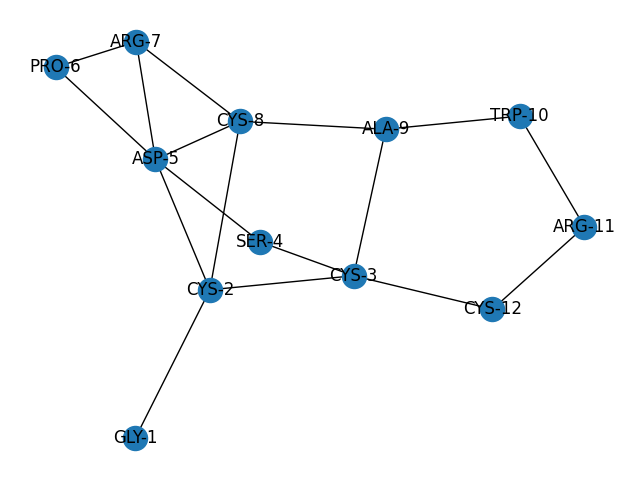
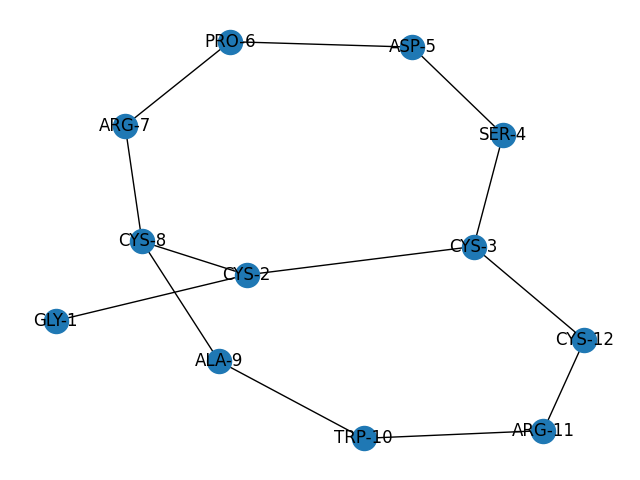
fixed peptide bond and disulfide bond addition

diff --git a/descriptors/peptide.py b/descriptors/peptide.py
@@ -10,12 +10,13 @@ Provides methods to obtain peptide descriptors.
 
 from audioop import add
 from platform import node
-from typing import List, Dict, NamedTuple, Tuple
+from typing import List, Dict, NamedTuple, Tuple, Set
 from collections import namedtuple
 from itertools import combinations, product
 
 import numpy as np
 import networkx as nx
+from scipy.spatial import distance
 
 from peptides import Peptide as PTDS
 from Bio.PDB import PPBuilder
@@ -30,7 +31,8 @@ aa_code: Dict[str, str] = {'CYS': 'C', 'ASP': 'D', 'SER': 'S', 'GLN': 'Q', 'LYS'
 
 basic_aa: Tuple[str] = ("HIS", "ARG", "LYS")
 acidic_aa: Tuple[str] = ("ASP", "GLU")
-non_bonding_side_chains: Tuple[str] = ("GLY", "SER", "LEU", "ILE", "MET", "TYR", "ALA", "VAL", "PHE", "TRP", "PRO", "GLN", "ASN")
+all_side_chains: Tuple[str] = list(aa_code.keys())
+neutral_aa: Set[str] = set(all_side_chains) - set(basic_aa + acidic_aa)
 backbone_atoms: Tuple[str] = ('CA', 'C1', 'HA', 'N', 'HN', 'H', 'C', 'O', 'H1', 'H2', 'H3', 'NH1', 'NH2', 'NH3', 'OXT')
 
 BOND_LENGTHS: NamedTuple = namedtuple('BondLengths', 'min max')
@@ -59,20 +61,20 @@ class ResidueNode(object):
         self.residue: Residue = residue
         self.num_peptide_bonds: int = 0
         self.num_disulfide_bonds: int = 0
-        self.disulfide: bool = False
-        self.acidic_side_chain: bool = False
-        self.basic_side_chain: bool = False
+        self.MAX_PEPTIDE_BONDS = 2
+        self.MAX_DISULFIDE_BONDS = 1
         
-        self._has_acidic_side_chain()
-        self._has_basic_side_chain()
-    
+        self.disulfide: bool = self._has_thiol_side_chain()
+        self.acidic_side_chain: bool = self._has_acidic_side_chain()
+        self.basic_side_chain: bool = self._has_basic_side_chain()
+        
     def get_coordinates(self, element_type = "SG") -> List:
-        if element_type == "SG":
-            return [np.array(atom.get_coord()) for atom in self.residue if atom.get_name() == element_type]
-        elif element_type == "CA":
-            return [np.array(atom.get_coord()) for atom in self.residue if atom.get_name() == element_type]
+        if element_type == "carbon":
+            return [np.array(atom.get_coord()) for atom in self.residue if atom.get_name().startswith("C")]
+        elif element_type == "alpha-carbon":
+            return [np.array(atom.get_coord()) for atom in self.residue if atom.get_name() == "CA" or atom.get_name() == "C1"]
         else: # All carbon types. More useful for non-canonicals or amino acids which can form peptide bonds with their side chain.
-            return [np.array(atom.get_coord()) for atom in self.residue if atom.get_name().startswith(element_type)]
+            return [np.array(atom.get_coord()) for atom in self.residue if atom.get_name() == "SG"]
         
     def _get_side_chain_atoms(self):
         backbone_atoms: List = ('CA', 'C1', 'HA', 'N', 'HN', 'H', 'C', 'O', 'H1', 'H2', 'H3', 'NH1', 'NH2', 'NH3', 'OXT')
@@ -84,47 +86,52 @@ class ResidueNode(object):
         return True if [element for element in side_chain_atoms if element.startswith(moeity)] else False
         
     def _has_thiol_side_chain(self) -> bool:
-        side_chain_atoms: List[str] = self._get_side_chain_atoms()
-        return True if [element for element in side_chain_atoms if element == "SG"] else False
-    
-    def can_form_disulfide(self) -> bool:
-        return self._has_thiol_side_chain()
+        return True if [element for element in self.residue if element.get_name() == "SG"] else False
     
     def is_acidic(self) -> bool:
-        return self._has_acidic_side_chain()
+        return self.acidic_side_chain
     
     def is_basic(self) -> bool:
-        return self._has_basic_side_chain()
+        return self.basic_side_chain
     
     def can_form_disulfide_bond(self) -> bool:
-        self.disulfide = self._has_thiol_side_chain()
-        return self.disulfide
+        return True if (self.num_disulfide_bonds < self.MAX_DISULFIDE_BONDS and self.disulfide) else False
     
     def can_form_peptide_bond(self) -> bool:
-        return True if self.num_peptide_bonds < 2 else False
+        return True if self.num_peptide_bonds < self.MAX_PEPTIDE_BONDS else False
+    
+    def is_neutral(self):
+        if self.residue.get_resname().upper() in set(all_side_chains) - set(basic_aa + acidic_aa):
+            return True
+        else:
+            side_chain_atoms: Set[str] = self._get_side_chain_atoms()
+            for atom in side_chain_atoms:
+                if "C" in atom or "H" in atom:
+                    pass
+                else:
+                    return False
+            return True
+            
 
     def _has_basic_side_chain(self) -> bool:
         if self.residue.get_resname().upper() in basic_aa:
-            self.basic_side_chain = True
-            return self.basic_side_chain
-        elif self.residue.get_resname().upper() in acidic_aa or self.residue.get_resname().upper() in non_bonding_side_chains:
+            return True
+        elif self.residue.get_resname().upper() in set(all_side_chains) - set(basic_aa):
             return False
         else:
             if self._detect_moeity(moeity="N"):
-                self.basic_side_chain = True
-                return self.basic_side_chain
-            return False
+                return True
+        return False
     
     def _has_acidic_side_chain(self) -> bool:
         if self.residue.get_resname().upper() in acidic_aa:
-            self.acidic_side_chain = True
-            return self.acidic_side_chain
-        elif self.residue.get_resname().upper() in basic_aa or self.residue.get_resname().upper() in non_bonding_side_chains:
+            return True
+        elif self.residue.get_resname().upper() in set(all_side_chains) - set(acidic_aa):
             return False
         else:
             if self._detect_moeity(moeity="O"):
-                self.acidic_side_chain = True
-            return self.acidic_side_chain
+                return True
+        return False
     
     def _increment_num_peptide_bonds(self) -> None:
         self.num_peptide_bonds = self.num_peptide_bonds + 1
@@ -132,13 +139,14 @@ class ResidueNode(object):
     def _increment_num_disulfide_bonds(self) -> None:
         self.num_disulfide_bonds = self.num_disulfide_bonds + 1
         
-    def form_peptide_bond(self) -> bool:
-        return True if self.num_peptide_bonds < 2 else False
+    def form_peptide_bond(self) -> None:
+        if self.num_peptide_bonds < self.MAX_PEPTIDE_BONDS:
+            self._increment_num_peptide_bonds()
     
-    def form_disulfide_bond(self) -> bool:
-        if self.disulfide:
-            return True if self.num_disulfide_bonds < 1 else False
-        return False
+    def form_disulfide_bond(self) -> None:
+        if self.disulfide and self.num_disulfide_bonds < self.MAX_DISULFIDE_BONDS:
+            self._increment_num_disulfide_bonds()
+            
                 
                  
                  
@@ -160,8 +168,8 @@ class Peptide(object):
     
     def __init__(self, chain: Chain):
         self.chain: Chain = chain
-        self.peptide_length: NamedTuple = BOND_LENGTHS(2.899, 4.25) # bond lengths should be ammended
-        self.disulfide_length: NamedTuple = BOND_LENGTHS(1.999, 2.05)
+        self.peptide_length: NamedTuple = BOND_LENGTHS(2.899, 4.18) # bond lengths should be ammended
+        self.disulfide_length: NamedTuple = BOND_LENGTHS(1.999, 2.1)
         self.ionic_radii_length: NamedTuple = BOND_LENGTHS(0.3, 30)
         self.graph = nx.Graph()
         self.residues = [x for x in self.chain.get_residues() \
@@ -261,6 +269,7 @@ class Peptide(object):
                 residue_one_node: ResidueNode = None
                 residue_two_node: ResidueNode = None
                 name_one, name_two = res_one.get_resname().upper(), res_two.get_resname().upper()
+                name_one, name_two = "".join(name_one.split()), "".join(name_two.split())
                 
                 # Before adding every node to the graph
                 # 1. check if disulfide bond can be created between the two nodes
@@ -274,28 +283,18 @@ class Peptide(object):
                 if not res_one_in_graph and not res_two_in_graph:
                     residue_one_node = ResidueNode(name=name_one, residue=res_one)
                     residue_two_node = ResidueNode(name=name_two, residue=res_two)
-                    
                 elif not res_one_in_graph:
                     residue_one_node = self._get_node(attribute="tag", value=f"{name_one}_{res_one.id[1]}")
-                    if residue_two_node.num_peptide_bonds < 2: # neutral amino acid
-                        residue_one_node = ResidueNode(name=name_one, residue=res_one)
-                    elif name_one =="CYS" and name_two == "CYS":
-                            residue_one_node = ResidueNode(name=name_one, residue=res_one)
+                    residue_two_node = ResidueNode(name=name_one, residue=res_one)
                 elif not res_two_in_graph:
-                    if residue_one_node.num_peptide_bonds < 2:
-                        residue_two_node = ResidueNode(name=name_two, residue=res_two)
-                    elif name_one =="CYS" and name_two == "CYS":
-                        residue_two_node = ResidueNode(name=name_two, residue=res_two)
+                    residue_two_node = self._get_node(attribute="tag", value=f"{name_two}_{res_two.id[1]}")
+                    residue_one_node = ResidueNode(name=name_two, residue=res_two)
                 else:
                     residue_one_node = self._get_node(attribute="tag", value=f"{name_one}_{res_one.id[1]}")
                     residue_two_node = self._get_node(attribute="tag", value=f"{name_two}_{res_two.id[1]}")
-                    if name_one in acidic_aa and name_two in basic_aa:
-                        self._add_ionic_interaction(residue_one_node, residue_two_node)
-                    elif name_two in basic_aa and name_one in acidic_aa:
-                        self._add_ionic_interaction(residue_one_node, residue_two_node)
                                                                 
-                # MET does not form disulfide bonds
-                if (residue_one_node.can_form_disulfide() and residue_two_node.can_form_disulfide()) and (name_one != "MET" and name_two != "MET"):
+                # # MET does not form disulfide bonds
+                if (residue_one_node.can_form_disulfide_bond() and residue_two_node.can_form_disulfide_bond()):
                     self._add_edges(residue_one_node, residue_two_node, edge_type="disulfide")
                 
                 if(res_one.id[1] == first_residue_idx or res_two.id[1] == first_residue_idx) and (res_one.id[1] == last_residue_idx or res_two.id[1] == last_residue_idx): # First and last residues
@@ -313,12 +312,13 @@ class Peptide(object):
                 elif (res_two.id[1] == last_residue_idx) and (res_one.id[1] != first_residue_idx) and (res_one.id[1] not in (res_two.id[1]-1, res_one.id[1]+1)):
                     self._add_edges(residue_one_node, residue_two_node, edge_type="peptide")  
                     
-                else:
-                    if res_one.id[1] in (res_two.id[1]-1, res_two.id[1]+1) or res_two.id[1] in (res_one.id[1]-1, res_one.id[1]+1):
+                elif res_one.id[1] in (res_two.id[1]-1, res_two.id[1]+1) or res_two.id[1] in (res_one.id[1]-1, res_one.id[1]+1):
                         # sequential amino acids
-                        self._add_edges(residue_one_node, residue_two_node, edge_type="peptide")
-                    # elif res_one.get_resname() != res_two.get_resname():
                     self._add_edges(residue_one_node, residue_two_node, edge_type="peptide")
+                else:
+                    if (name_one != name_two) and not (residue_one_node.is_neutral() or residue_two_node.is_neutral()):
+                        #make sure the amino acid across is different and is neutral
+                        self._add_edges(residue_one_node, residue_two_node, edge_type="peptide")
                            
 
         except IndexError as e:
@@ -341,7 +341,8 @@ class Peptide(object):
     def _add_edge(self, residue_one, residue_two, bond_type: str = "peptide") -> None:
         if bond_type == "peptide":
             self.graph.add_edge(residue_one, residue_two, length=4.0)
-        elif bond_type == "disulfide":
+        
+        if bond_type == "disulfide":
             self.graph.add_edge(residue_one, residue_two, length=2.0)
     
     def _find_node(self, attribute: str, value: str) -> bool:
@@ -362,23 +363,37 @@ class Peptide(object):
     def _add_node(self, node):
         self.graph.add_node(f"{node.name}-{node.residue.id[1]}", name=str(node.residue.id[1]), type='node', tag=f"{node.name}_{node.residue.id[1]}")
         
-    def _add_disulfide_edge(self, residue_one: ResidueNode, residue_two: ResidueNode) -> bool:
-        if residue_one.form_disulfide_bond() and residue_two.form_disulfide_bond():
-            coordinates_one: List = residue_one.get_coordinates()
-            coordinates_two: List = residue_two.get_coordinates()
+    def _add_disulfide_edge(self, residue_one: ResidueNode, residue_two: ResidueNode) -> None:
+        coordinates_one: List = residue_one.get_coordinates()[0]
+        coordinates_two: List = residue_two.get_coordinates()[0]
             
-            distance: float = np.linalg.norm(coordinates_one, coordinates_two)
-            bond_angle: float = self._theta(coordinates_one, coordinates_two)
-            
-            if (distance >= self.disulfide_length.min and distance <= self.disulfide_length.max) and (179.9 <= bond_angle <= 180.9):
+        atomic_distance: float = distance.euclidean(coordinates_one, coordinates_two) # For some reason, numy.linalg.norm does not work! Interesting
+        bond_angle: float = self._theta(coordinates_one, coordinates_two)
+                    
+        if (self.disulfide_length.min <= atomic_distance <= self.disulfide_length.max) and ((-0.1 <= bond_angle <= 0.1) or (179.9 <= bond_angle <= 180.9)):
+
+            residue_one_node: ResidueNode = None
+            residue_two_node: ResidueNode = None
+                
+            node_one_present: bool = self._find_node(attribute="tag", value=f"{residue_one.name}_{residue_one.residue.id[1]}")
+            node_two_present: bool = self._find_node(attribute="tag", value=f"{residue_two.name}_{residue_two.residue.id[1]}")
+                
+            if not node_one_present:
                 self._add_node(residue_one)
+                
+            if not node_two_present:
                 self._add_node(residue_two)
-                self._add_edge(residue_one, residue_two)
-                return True
-            return False
-        return False
-    
-    def _add_peptide_edge(self, residue_one: ResidueNode, residue_two: ResidueNode):
+                    
+            residue_one_node = self._get_node(attribute="tag", value=f"{residue_one.name}_{residue_one.residue.id[1]}")
+            residue_two_node = self._get_node(attribute="tag", value=f"{residue_two.name}_{residue_two.residue.id[1]}")
+
+            if residue_one_node and residue_two_node:
+                residue_one.form_disulfide_bond()
+                residue_two.form_disulfide_bond()
+                self._add_edge(residue_one_node[0], residue_two_node[0])
+
+
+    def _add_peptide_edge(self, residue_one: ResidueNode, residue_two: ResidueNode) -> None:
         if residue_one.can_form_peptide_bond() and residue_two.can_form_peptide_bond():
             
             coordinates_one: List
@@ -388,12 +403,12 @@ class Peptide(object):
             
             # if either of residue_one or residue_two cannot form peptide bonds with their side chain, 
             # we only get the Ca carbon else, we check all other carbons
-            if residue_one.name in non_bonding_side_chains or residue_two.name in non_bonding_side_chains:
-                coordinates_one: List = residue_one.get_coordinates(element_type="CA")
-                coordinates_two: List = residue_two.get_coordinates(element_type="CA")
+            if residue_one.name in all_side_chains or residue_two.name in all_side_chains:
+                coordinates_one: List = residue_one.get_coordinates(element_type="alpha-carbon")
+                coordinates_two: List = residue_two.get_coordinates(element_type="alpha-carbon")
             else:
-                coordinates_one: List = residue_one.get_coordinates(element_type="C")
-                coordinates_two: List = residue_two.get_coordinates(element_type="C")
+                coordinates_one: List = residue_one.get_coordinates(element_type="carbon")
+                coordinates_two: List = residue_two.get_coordinates(element_type="carbon")
             
             for carbon_one, carbon_two in product(coordinates_one, coordinates_two):
                 distance = np.linalg.norm(carbon_one - carbon_two)
@@ -419,13 +434,10 @@ class Peptide(object):
                 residue_one_node = self._get_node(attribute="tag", value=f"{residue_one.name}_{residue_one.residue.id[1]}")
                 residue_two_node = self._get_node(attribute="tag", value=f"{residue_two.name}_{residue_two.residue.id[1]}")
 
-                if (residue_one.is_acidic() and residue_two.is_acidic()) and residue_one.is_basic() and residue_two.is_basic():
-                    pass
-                else:  
-                    if residue_one_node and residue_two_node:
-                        if  residue_one.can_form_peptide_bond() and residue_two.can_form_peptide_bond():
-                            if residue_one.form_peptide_bond() and residue_two.form_peptide_bond():
-                                self._add_edge(residue_one_node[0], residue_two_node[0])
+                if residue_one_node and residue_two_node:
+                    residue_one.form_peptide_bond()
+                    residue_two.form_peptide_bond()
+                    self._add_edge(residue_one_node[0], residue_two_node[0])
                        
 
     def _add_ionic_interaction(self, residue_one, residue_two) -> bool:
